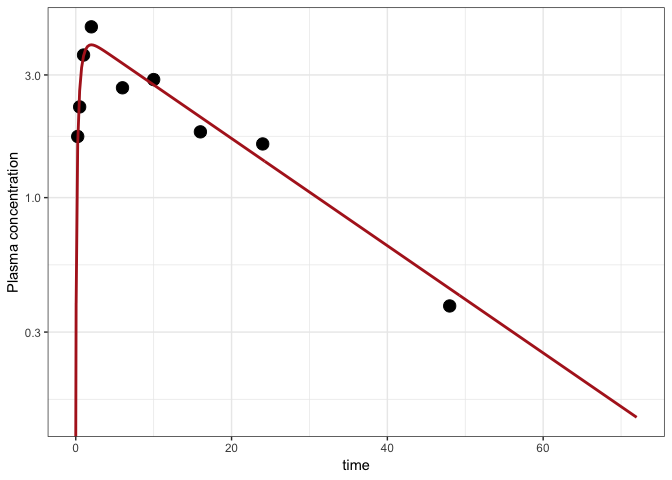
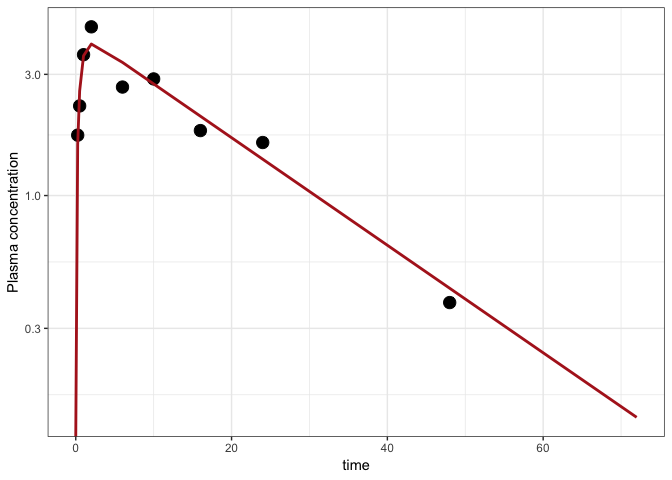
re-build md

diff --git a/application/two_endpoints.md b/application/two_endpoints.md
@@ -102,7 +102,8 @@ mod <- mread("two_endpoints.cpp")
 ``` c
 [ SET ] end = 72, delta = 0.25, add = 0.05
 
-[ PARAM ] CLnr = 0.97, V = 22.3, KA = 1.9, CLr = 0.2, dvtype = 0
+[ PARAM ] CLnr = 0.97, V = 22.3, KA = 1.9, CLr = 0.2, dvtype = 0, 
+sigma1 = 1, sigma2 = 1
 
 [ CMT ] GUT CENT URINE
 
@@ -117,6 +118,7 @@ dxdt_URINE =  CLr*(CENT/V);
 capture CP = (CENT/V)*exp(EPS(1));
 capture UR = URINE*exp(EPS(2));
 capture DV = dvtype ==2 ? UR : CP;
+capture sigma = dvtype==2? sigma2 : sigma1;
 ```
 
 Check out the `[ TABLE ]` block. We check the value of `dvtype` and
@@ -249,7 +251,9 @@ ofv1 <- function(p, data, yobs, dvcol = "DV", pred=FALSE) {
   out <- mrgsim_d(mod, data, output="df")
   if(pred) return(as_tibble(out))
   y_hat <- out[[dvcol]]
-  sum((y_hat-yobs)^2,na.rm=TRUE)
+  #sum((y_hat-yobs)^2,na.rm=TRUE)
+  llike <- dnorm(yobs, y_hat, out[["sigma"]], log = TRUE)
+  return(-1*sum(llike, na.rm=TRUE))
 }
 ```
 
@@ -258,9 +262,9 @@ ofv1 <- function(p, data, yobs, dvcol = "DV", pred=FALSE) {
 ``` r
 yobs <- data[["DV"]]
 
-theta <- log(c(CLnr = 2, V=10, KA = 1, CLr = 1))
+theta <- log(c(CLnr = 2, V=10, KA = 1, CLr = 1, sigma1=1, sigma2=1))
 
-fit <- minqa::newuoa(theta, ofv1, data=data, yobs=yobs)
+fit <- nloptr::newuoa(theta, ofv1, data=data, yobs=yobs)
 ```
 
 ## Results
@@ -271,21 +275,32 @@ The way we set this up, the true parameters are in the model
 as.numeric(param(mod))
 ```
 
-    .   CLnr      V     KA    CLr dvtype 
-    .   0.97  22.30   1.90   0.20   0.00
+    .   CLnr      V     KA    CLr dvtype sigma1 sigma2 
+    .   0.97  22.30   1.90   0.20   0.00   1.00   1.00
 
 ``` r
 exp(fit$par)
 ```
 
-    . [1]  0.9165103 23.1198956  1.8864036  0.1937363
+    . [1]  0.9238533 22.9345229  1.8367364  0.1941290  0.3579444  0.5502006
 
 And make the plots for concentration and urine cumulative amount; we use
 the `dose` data set (above) to get the smooth line
 
 ``` r
+library(nlme)
+
 prd <- ofv1(fit$par,data = dose, pred = TRUE)
+
+prd <- ofv1(fit$par, data = data, pred=TRUE)
+data <- mutate(data, PRED = prd[["DV"]], RES=DV-PRED)
+
+h <- fdHess(fit$par, ofv1, data = data, yobs=yobs)
+
+h$Hessian %>% solve %>% diag %>% sqrt
 ```
+
+    . [1] 0.02121075 0.05928664 0.14850905 0.03558959 0.23648334 0.29009604
 
 ``` r
 ggplot() + 
@@ -334,15 +349,15 @@ iur
 data[iur,]
 ```
 
-    . # A tibble: 6 x 7
-    .      ID  time dvtype    DV  evid   cmt   amt
-    .   <dbl> <dbl>  <dbl> <dbl> <dbl> <dbl> <dbl>
-    . 1     1     2      2  1.23     0     0     0
-    . 2     1    10      2  7.25     0     0     0
-    . 3     1    20      2  9.90     0     0     0
-    . 4     1    30      2 12.7      0     0     0
-    . 5     1    40      2 15.4      0     0     0
-    . 6     1    72      2 16.9      0     0     0
+    . # A tibble: 6 x 9
+    .      ID  time dvtype    DV  evid   cmt   amt  PRED     RES
+    .   <dbl> <dbl>  <dbl> <dbl> <dbl> <dbl> <dbl> <dbl>   <dbl>
+    . 1     1     2      2  1.23     0     0     0  1.20  0.0384
+    . 2     1    10      2  7.25     0     0     0  6.41  0.843 
+    . 3     1    20      2  9.90     0     0     0 10.6  -0.734 
+    . 4     1    30      2 12.7      0     0     0 13.2  -0.527 
+    . 5     1    40      2 15.4      0     0     0 14.8   0.528 
+    . 6     1    72      2 16.9      0     0     0 16.8   0.0897
 
 Now, create a vector of all the concentrations followed by all the urine
 amounts; the final product is `yobs`
@@ -398,8 +413,8 @@ fit <- minqa::newuoa(par=theta, fn=ofv2, data=data)
 as.numeric(param(mod))
 ```
 
-    .   CLnr      V     KA    CLr dvtype 
-    .   0.97  22.30   1.90   0.20   0.00
+    .   CLnr      V     KA    CLr dvtype sigma1 sigma2 
+    .   0.97  22.30   1.90   0.20   0.00   1.00   1.00
 
 ``` r
 exp(fit$par)
